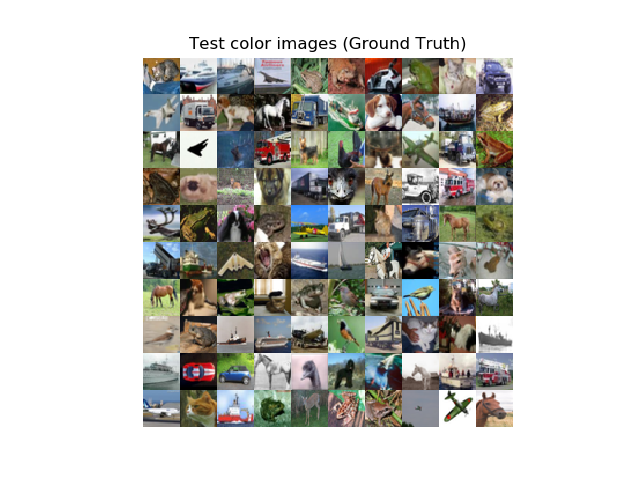
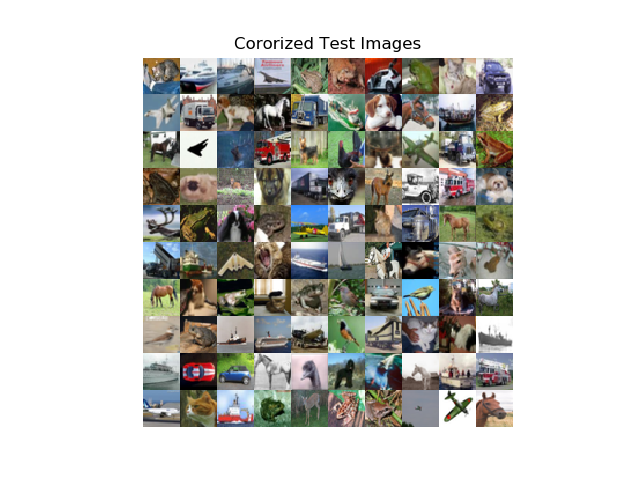
Modified some files

Changed region(s): [[0.2812, 0.0625, 0.7188, 0.125]]

diff --git a/Project/Autoencoder.py b/Project/Autoencoder.py
@@ -3,9 +3,61 @@ from keras.layers import Reshape, Conv2DTranspose
 from keras.layers import Conv2D, Flatten
 from keras.models import Model
 from keras import backend as K
+import Plot as plot
 
+def build_autoencoder_model(batch_size,input_shape,kernel_size,latent_dim,layer_filters,x_train,x_test,img_rows,img_cols,channels):
+    # 1. Build encoder model
+    input_images = Input(shape=input_shape,name='encoder_input')
+    x = input_images
 
+    for filters in layer_filters:
+        x = Conv2D(filters = filters,kernel_size=kernel_size,strides =2,activation = 'relu',padding ='same') (x)
 
+    shape = K.int_shape(x)
+    x = Flatten()(x)
+    latent = Dense(latent_dim,name='latent_vector')(x)
+    # 2. Instantiate Encoder Model
+    encoder = Model(input_images,latent,name ='encoder')
+    encoder.summary()
+    
+    # 3. Build decoder Model
+    latent_inputs = Input(shape=(latent_dim,), name='decoder_input')
+    x = Dense(shape[1]*shape[2], shape[3])(latent_inputs)
+    x = Reshape((shape[1],shape[2],shape[3]))(x)
+
+    for filters in layer_filters[::-1]:
+        x = Conv2DTranspose(filters = filters, kernel_size = kernel_size,strides=2, activtion = 'relu', padding ='same')(x)
+    
+    output_images = Conv2DTranspose(filters = 1, kernel_size = kernel_size, padding='same',activation = 'sigmpod',name = 'decoder_output')(x)
+    
+    # 4. Instantiate decoder Model
+    decoder = Model(latent_inputs,output_images,name = 'decoder')
+    decoder.summary()
+    # 5. Instantiate Autoencoder Model
+    # Reshape Images
+    # normalize output train and test color images
+    x_train = x_train.astype('float32') / 255
+    x_test = x_test.astype('float32') / 255
+    # normalize input train and test grayscale images
+    x_train_gray = x_train_gray.astype('float32') / 255
+    x_test_gray = x_test_gray.astype('float32') / 255
+    # reshape images to row x col x channel for CNN output/validation
+    x_train = x_train.reshape(x_train.shape[0], img_rows, img_cols,channels)
+    x_test = x_test.reshape(x_test.shape[0], img_rows, img_cols, channels)
+    # reshape images to row x col x channel for CNN input
+    x_train_gray = x_train_gray.reshape(x_train_gray.shape[0], img_rows,img_cols, 1)
+    x_test_gray = x_test_gray.reshape(x_test_gray.shape[0], img_rows, img_cols, 1)
+
+    autoencoder = Model(input_images,decoder(encoder(input_images)),name = 'autoencoder')
+    autoencoder.summary()
+    # 6. Train Autoencoder Model
+    autoencoder.compile(loss = 'mse',optimizer ='adam')
+    autoencoder.fit(x_train_gray,x_train,validation_data = (x_test_gray,x_test), epochs = 30, batch_size = batch_size)
+    x_decoded = autoencoder.predict(x_test_gray)
+
+    plot.display_colorized_predicted_images(x_decoded,x_train.shape[1],x_train.shape[2],x_train.shape[3],'saved_images')
+
+"""
 def create_encoder_model(input_shape,kernel_size,latent_dim,layer_filters):
     input_images = Input(shape=input_shape,name='encoder_input')
 
@@ -18,11 +70,13 @@ def create_encoder_model(input_shape,kernel_size,latent_dim,layer_filters):
     x = Flatten()(x)
     latent = Dense(latent_dim,name='latent_vector')(x)
     instantiate_encoder_model(input_images,latent)
-
+    create_decoder_model(kernel_size,latent_dim,shape,layer_filters,x)
+"""
 def instantiate_encoder_model(input_images,latent):
     encoder = Model(input_images,latent,name ='encoder')
     encoder.summary()
 
+"""
 def create_decoder_model(kernel_size,latent_dim,shape,layer_filters,x):
     latent_inputs = Input(shape=(latent_dim,), name='decoder_input')
     x = Dense(shape[1]*shape[2], shape[3])(latent_inputs)
@@ -33,7 +87,7 @@ def create_decoder_model(kernel_size,latent_dim,shape,layer_filters,x):
     
     output_images = Conv2DTranspose(filters = 1, kernel_size = kernel_size, padding='same',activation = 'sigmpod',name = 'decoder_output')(x)
     instantiate_decoder_model(latent_inputs,output_images)
-
+"""
 def instantiate_decoder_model(latent_inputs,output_images):
     decoder = Model(latent_inputs,output_images,name = 'decoder')
     decoder.summary()
@@ -41,12 +95,29 @@ def instantiate_decoder_model(latent_inputs,output_images):
 def instantiate_autoencoder_model(input_images,decoder='decoder',encoder='encoder'):
     autoencoder = Model(input_images,decoder(encoder(input_images)),name = 'autoencoder')
     autoencoder.summary()
-    train_autoencoder(autoencoder)
 
 def train_autoencoder(autoencoder,batch_size,x_train_gray,x_train,x_test_gray,x_test):
     autoencoder.compile(loss = 'mse',optimizer ='adam')
     autoencoder.fit(x_train_gray,x_train,validation_data = (x_test_gray,x_test), epochs = 30, batch_size = batch_size)
     x_decoded = autoencoder.predict(x_test_gray)
+
+
+############################
+def reshape_images_output_train(x_train,img_rows,img_cols):
+    x_train = x_train.reshape(x_train.shape[0],img_rows,img_cols,1)
+    return x_train
+
+def reshape_images_output_test(x_test,img_rows,img_cols):
+    x_test = x_test.reshape(x_test.shape[0],img_rows,img_cols,1)
+    return x_test
+
+def reshape_images_input_train(x_train_gray,img_rows,img_cols):
+    x_train_gray = x_train_gray.reshape(x_train_gray.shape[0],img_rows,img_cols,1)
+    return x_train_gray
+
+def reshape_images_input_test(x_test_gray,img_rows,img_cols):
+    x_test_gray = x_test_gray.reshape(x_test_gray.shape[0],img_rows,img_cols,1)
+    return x_test_gray
 
 
 

diff --git a/Project/Predict_Colors_Main.py b/Project/Predict_Colors_Main.py
@@ -1,16 +1,20 @@
-import Project.Autoencoder as auto
-import Project.Plot as plot
-import Project.Save_Data as savedata
+import Autoencoder as auto
+import Plot as plot
+import Save_Data as savedata
 import numpy as np
 from keras.datasets import cifar10
+from keras.layers import Input, Dense
+from keras.layers import Reshape, Conv2DTranspose
+from keras.layers import Conv2D, Flatten
+from keras.models import Model
+from keras import backend as K
 
 # Global Parameteres and Initializations
 # Network parameters:
-    # input_shape
-    # batch_size = 32
-    # kernel_size = 3
-    # latent_dim = 256
-    # layer_filters = [64,128,256]
+batch_size = 32
+kernel_size = 3
+latent_dim = 256
+layer_filters = [64,128,256]
 # input_shape = (img_rows,img_cols,1)
 # img_cols
 # img_rows
@@ -31,23 +35,20 @@ def handler():
     channels = x_train.shape[3]
 
     input_shape = (img_rows,img_cols,1)
+
     # 3. Create a folder for the images to be tested
     savedata.save_image()
-    # Normalize output
-    x_train = x_train.astype('float32') / 255
-    x_test = x_test.astype('float32') / 255
-    # Normalize input
-    x_train_gray = x_train_gray.astype('float32') / 255
-    x_test_gray = x_test_gray.astype('float32') / 255
-    # Reshape Images
-    x_train_gray = x_train_gray.reshape(x_train_gray.shape[0], img_rows,img_cols, 1)
-    x_test_gray = x_test_gray.reshape(x_test_gray.shape[0], img_rows, img_cols, 1)
+    # 4. Display the first 100 images (input in original color)
 
-    input_shape = (img_rows,img_cols,1)
-
+    plot.display_images_original_color(x_test,img_rows,img_cols,channels,'saved_images')
+    # 5. Display the grayscaled images of first 100 inputs
+    plot.display_images_grayscale(x_train,x_test,img_rows,img_cols,'saved_images')
+    # 6. Build autoencoder Model
+    auto.build_autoencoder_model(batch_size,input_shape,kernel_size,latent_dim,layer_filters,x_train,x_test,img_rows,img_cols,channels)
     # 5. Train the model + save each epoche
-    savedata.save_datamodel()
+    #savedata.save_datamodel()
     # 6. Show the output of the tested images (new color)
+    #plot.plot_predicted_color_images(img_rows,img_cols,channels,'saved_images')
     # 7. Show accuracy
 
 handler()

diff --git a/Project/Plot.py b/Project/Plot.py
@@ -1,6 +1,9 @@
 import matplotlib.pyplot as plt
 import numpy as np
 
+
+
+
 def display_colorized_predicted_images(x_decoded,img_rows,img_cols,channels,imgs_dir):
     # display first 100 images
     imgs = x_decoded[:100]
@@ -20,10 +23,12 @@ def display_images_original_color(x_test,img_rows,img_cols,channels,imgs_dir):
     imgs = np.vstack([np.hstack(i) for i in imgs])
     plt.figure()
     plt.axis('off')
-    plt.title('Test color images (Ground Truth)')
+    plt.title('Cororized Test Images')
     plt.imshow(imgs, interpolation='none')
     plt.savefig('%s/test_color.png' % imgs_dir)
     plt.show()
+
+    # normalize output train and test color images
 
 
 
@@ -42,7 +47,7 @@ def display_images_grayscale(x_train,x_test,img_rows,img_cols,imgs_dir):
     imgs = np.vstack([np.hstack(i) for i in imgs])
     plt.figure()
     plt.axis('off')
-    plt.title('Test gray images (Input)')
+    plt.title('Grayscaled Input Images')
     plt.imshow(imgs, interpolation='none', cmap='gray')
     plt.savefig('%s/test_gray.png' % imgs_dir)
     plt.show()

diff --git a/Project/Save_Data.py b/Project/Save_Data.py
@@ -11,4 +11,4 @@ def save_image():
     save_folder = os.path.join(os.getcwd(),'saved_images')
     if not os.path.isdir(save_folder):
         os.makedirs(save_folder)
-    filepath = os.paht.join(save_folder)
+    filepath = os.path.join(save_folder)
